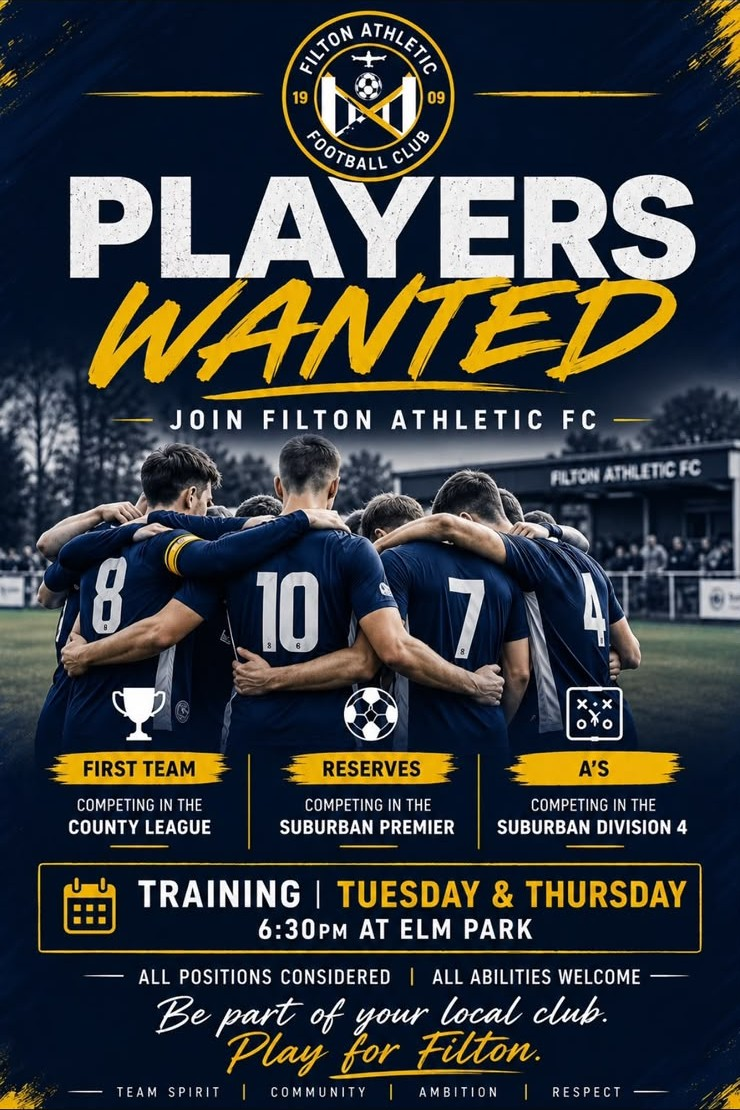
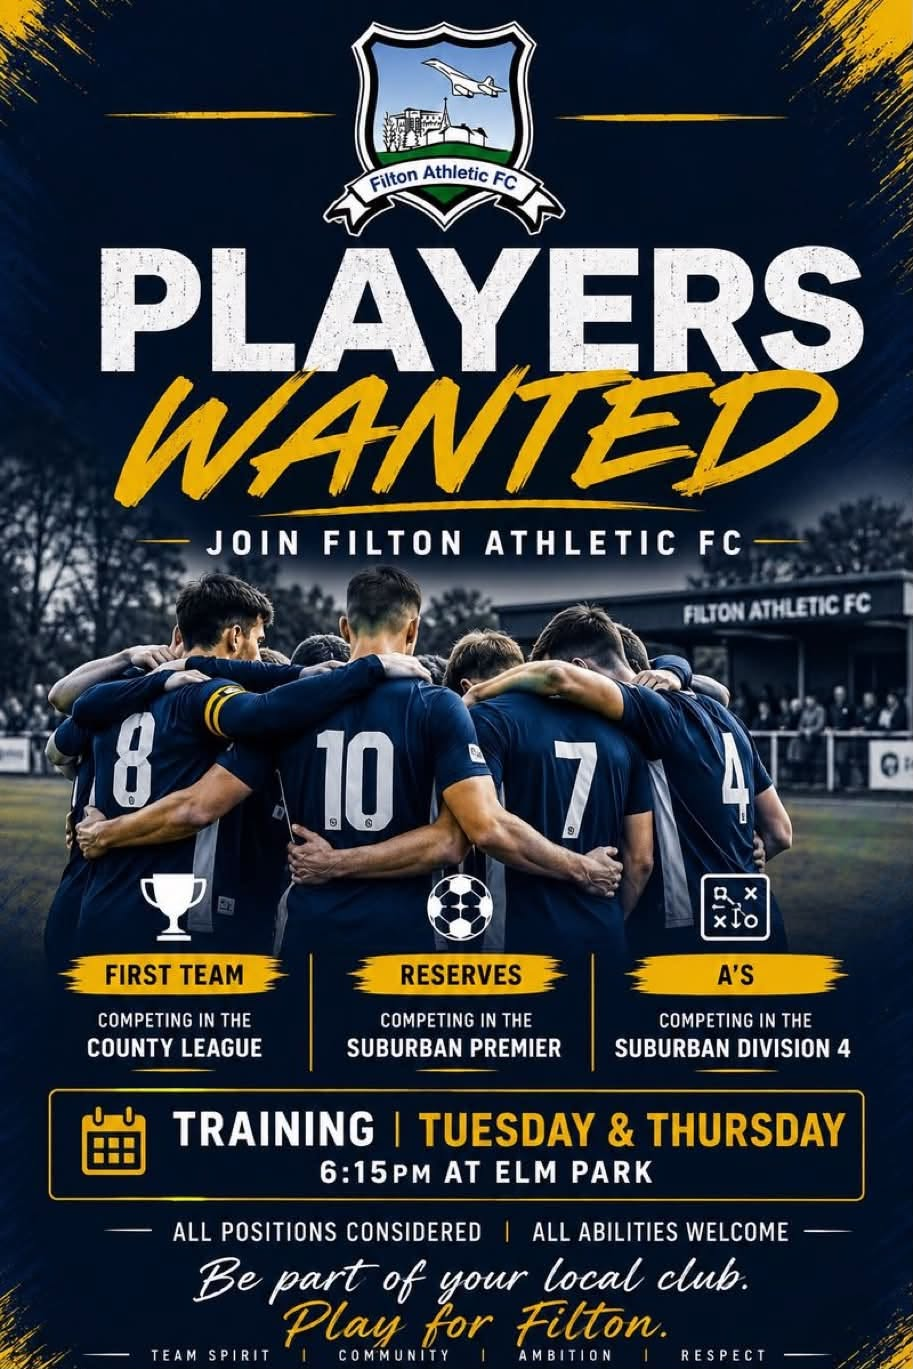
Update players-wanted poster, add real club news, add Facebook link
- Replaced the Players Wanted poster with the updated version (training
  time changed 6:30pm -> 6:15pm), updated alt text to match.
- Club news section now has two real posts instead of the placeholder:
  the Filton Town Council ground-improvements meeting, and the
  Macmillan Longest Day Golf Challenge (£1,750 raised, with the
  donation link).
- Added the club's Facebook link to Contact & ground, alongside the
  existing X/Twitter link.

diff --git a/src/pages/Home.tsx b/src/pages/Home.tsx
@@ -2,6 +2,8 @@ import { useEffect } from 'react'
 import { Link, useLocation } from 'react-router-dom'
 import crestTrimmed from '../assets/img/filton-athletic-crest-trimmed.webp'
 import playersWantedPoster from '../assets/img/players-wanted.jpg'
+import councilMeetingPhoto from '../assets/img/council-meeting-ground-improvements.jpg'
+import macmillanGolfPhoto from '../assets/img/macmillan-golf-challenge.jpg'
 import chrisHillyerPhoto from '../assets/img/players/chris-hillyer.webp'
 import jackColePhoto from '../assets/img/players/jack-cole.webp'
 import jackWillmorPhoto from '../assets/img/players/jack-willmor.webp'
@@ -138,7 +140,7 @@ function Home() {
             <div className="mx-auto w-full max-w-[300px] rounded-lg border border-slate-200 bg-white p-3 shadow-sm lg:order-first lg:mx-0">
               <img
                 src={playersWantedPoster}
-                alt="Players wanted — join Filton Athletic FC. First team competing in the County League, Reserves in the Suburban Premier, A's in Suburban Division 4. Training Tuesday and Thursday, 6:30pm at Elm Park. All positions considered, all abilities welcome."
+                alt="Players wanted — join Filton Athletic FC. First team competing in the County League, Reserves in the Suburban Premier, A's in Suburban Division 4. Training Tuesday and Thursday, 6:15pm at Elm Park. All positions considered, all abilities welcome."
                 className="w-full rounded"
               />
             </div>
@@ -171,12 +173,46 @@ function Home() {
       {/* News */}
       <section id="news" className="mx-auto max-w-6xl px-6 py-14">
         <SectionHeading icon="chat" title="Club news" className="justify-center" />
-        <div className="mt-4 rounded-lg border border-dashed border-slate-300 bg-[#f7faf8] p-8 text-center">
-          <p className="font-semibold text-[#0b2d52]">2026/27 season welcome coming soon</p>
-          <p className="mt-1 text-sm text-slate-500">
-            We&rsquo;re putting together the chairman&rsquo;s welcome and season preview for the new
-            campaign &mdash; check back shortly.
-          </p>
+        <div className="mt-6 grid gap-6 sm:grid-cols-2">
+          <div className="overflow-hidden rounded-lg border border-slate-200">
+            <img
+              src={councilMeetingPhoto}
+              alt="Filton Athletic FC and Filton Town Council — thank you to local residents for coming along to the meeting about ground improvements."
+              className="w-full object-cover"
+            />
+            <div className="p-5">
+              <p className="font-semibold text-[#0b2d52]">Thank you to local residents — ground improvements meeting</p>
+              <p className="mt-2 text-sm text-slate-600">
+                Thank you to everyone who came along to this week&rsquo;s meeting with Filton Town Council
+                about improving our ground. Your feedback and ideas were greatly appreciated, and we&rsquo;re
+                proud to be working in partnership with the Council to support our club, our ground and our
+                community.
+              </p>
+            </div>
+          </div>
+          <div className="overflow-hidden rounded-lg border border-slate-200">
+            <img
+              src={macmillanGolfPhoto}
+              alt="Filton's Finest completed the Macmillan Longest Day Golf Challenge on 3rd June 2026, raising £1,750 so far for Macmillan Cancer Support."
+              className="w-full object-cover"
+            />
+            <div className="p-5">
+              <p className="font-semibold text-[#0b2d52]">Macmillan Longest Day Golf Challenge — £1,750 raised</p>
+              <p className="mt-2 text-sm text-slate-600">
+                Congratulations to Oliver Keeble, Mark Woodrow and Matthew Price for completing the Macmillan
+                Longest Day Golf Challenge, raising an amazing &pound;1,750 so far for Macmillan Cancer
+                Support.
+              </p>
+              <a
+                className="mt-3 inline-block text-sm font-semibold text-[#0b2d52] underline"
+                href="https://longestdaygolf.macmillan.org.uk/Team/filtonsfinest"
+                target="_blank"
+                rel="noreferrer"
+              >
+                Donate to Filton&rsquo;s Finest &rarr;
+              </a>
+            </div>
+          </div>
         </div>
       </section>
 

diff --git a/src/components/SiteFooter.tsx b/src/components/SiteFooter.tsx
@@ -8,6 +8,7 @@ const mapsEmbedUrl = `https://www.google.com/maps?q=${mapsQuery}&output=embed`
 
 const shopUrl = 'https://www.boca-uk.com/webshop/club-shops/filton-athletic-fc/'
 const xUrl = 'https://x.com/FiltonAthletic'
+const facebookUrl = 'https://www.facebook.com/FiltonAthleticFC'
 
 function SiteFooter() {
   return (
@@ -42,6 +43,12 @@ function SiteFooter() {
               Email:{' '}
               <a className="text-[#0b2d52] underline" href="mailto:filtonathleticfc@outlook.com">
                 filtonathleticfc@outlook.com
+              </a>
+            </p>
+            <p className="mt-1">
+              Facebook:{' '}
+              <a className="text-[#0b2d52] underline" href={facebookUrl} target="_blank" rel="noreferrer">
+                Filton Athletic FC
               </a>
             </p>
             <p className="mt-1">
